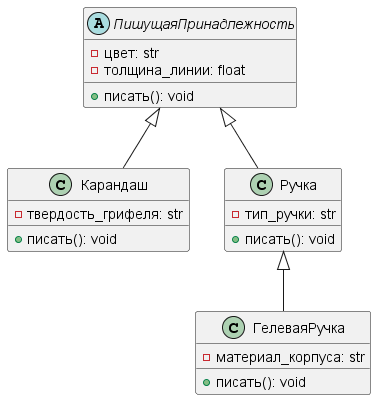
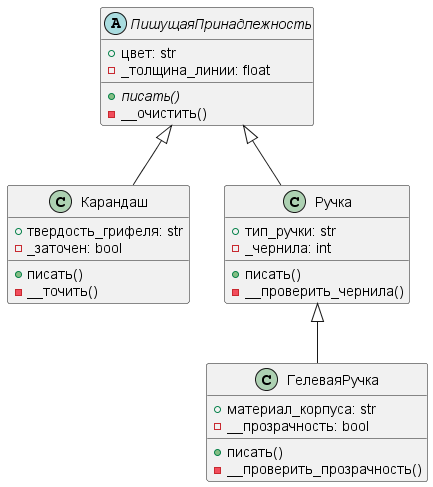
fix private

diff --git a/week_5/task_2/ПишущиеПринадлежности.py b/week_5/task_2/ПишущиеПринадлежности.py
@@ -12,8 +12,8 @@ class ПишущаяПринадлежность(ABC):
         :param цвет: Цвет пишущего инструмента.
         :param толщина_линии: Толщина линии, которую оставляет инструмент.
         """
-        self.цвет = цвет
-        self.толщина_линии = толщина_линии
+        self.цвет = цвет  # Общедоступное поле
+        self._толщина_линии = толщина_линии  # Защищённое поле
 
     @abstractmethod
     def писать(self):
@@ -22,6 +22,12 @@ class ПишущаяПринадлежность(ABC):
         Определяет, как пишущая принадлежность будет "писать".
         """
         pass
+
+    def __очистить(self):
+        """
+        Закрытый метод, который не должен быть доступен извне класса.
+        """
+        print("Инструмент очищен.")
 
 class Карандаш(ПишущаяПринадлежность):
     """
@@ -36,14 +42,22 @@ class Карандаш(ПишущаяПринадлежность):
         :param твердость_грифеля: Твердость грифеля карандаша (например, HB, 2B).
         """
         super().__init__(цвет, толщина_линии)
-        self.твердость_грифеля = твердость_грифеля
+        self.твердость_грифеля = твердость_грифеля  # Общедоступное поле
+        self._заточен = True  # Защищённое поле
 
     def писать(self):
         """
         Реализация метода писать для карандаша.
         Выводит информацию о цвете, толщине линии и твердости грифеля.
         """
-        print(f"Карандаш пишет цветом: {self.цвет}, толщина линии: {self.толщина_линии}, твёрдость грифеля: {self.твердость_грифеля}")
+        print(f"Карандаш пишет цветом: {self.цвет}, толщина линии: {self._толщина_линии}, твёрдость грифеля: {self.твердость_грифеля}")
+
+    def __точить(self):
+        """
+        Закрытый метод для заточки карандаша.
+        """
+        self._заточен = True
+        print("Карандаш заточен.")
 
 class Ручка(ПишущаяПринадлежность):
     """
@@ -58,14 +72,21 @@ class Ручка(ПишущаяПринадлежность):
         :param тип_ручки: Тип ручки (например, шариковая, гелевая).
         """
         super().__init__(цвет, толщина_линии)
-        self.тип_ручки = тип_ручки
+        self.тип_ручки = тип_ручки  # Общедоступное поле
+        self._чернила = 100  # Защищённое поле (уровень чернил)
 
     def писать(self):
         """
         Реализация метода писать для ручки.
         Выводит информацию о цвете, толщине линии и типе ручки.
         """
-        print(f"Ручка пишет цветом: {self.цвет}, толщина линии: {self.толщина_линии}, тип ручки: {self.тип_ручки}.")
+        print(f"Ручка пишет цветом: {self.цвет}, толщина линии: {self._толщина_линии}, тип ручки: {self.тип_ручки}.")
+
+    def __проверить_чернила(self):
+        """
+        Закрытый метод для проверки уровня чернил.
+        """
+        return self._чернила > 0
 
 class ГелеваяРучка(Ручка):
     """
@@ -81,11 +102,18 @@ class ГелеваяРучка(Ручка):
         :param материал_корпуса: Материал корпуса ручки (например, алюминий, пластик).
         """
         super().__init__(цвет, толщина_линии, тип_ручки)
-        self.материал_корпуса = материал_корпуса
+        self.материал_корпуса = материал_корпуса  # Общедоступное поле
+        self.__прозрачность = True  # Закрытое поле
 
     def писать(self):
         """
         Реализация метода писать для гелевой ручки.
         Выводит информацию о типе ручки, цвете, толщине линии и материале корпуса.
         """
-        print(f"Тип ручки: Гелевая, ручка пишет цветом: {self.цвет}, толщина линии: {self.толщина_линии}, материал корпуса: {self.материал_корпуса}.")
+        print(f"Тип ручки: Гелевая, ручка пишет цветом: {self.цвет}, толщина линии: {self._толщина_линии}, материал корпуса: {self.материал_корпуса}.")
+
+    def __проверить_прозрачность(self):
+        """
+        Закрытый метод для проверки прозрачности корпуса.
+        """
+        return self.__прозрачность

diff --git a/week_5/task_2/main.py b/week_5/task_2/main.py
@@ -26,7 +26,7 @@ def main():
     print("\nСоздание гелевой ручки:")
     цвет_гелевой_ручки = input("Введите цвет гелевой ручки: ")
     толщина_гелевой_ручки = float(input("Введите толщину линии гелевой ручки: "))
-    материал_корпуса = input("Введите материал корпуса ручки: (например: алюминий, пластик) ")
+    материал_корпуса = input("Введите материал корпуса ручки (например, алюминий, пластик): ")
     
     гелевая_ручка = ГелеваяРучка(цвет_гелевой_ручки, толщина_гелевой_ручки, тип_ручки, материал_корпуса)
     
@@ -44,7 +44,7 @@ def main():
 if __name__ == "__main__":
     main()
 
-#Пример вывода:
+    #Пример вывода:
 
 #Создание пишущих принадлежностей:
 

diff --git a/week_5/task_2/README.md b/week_5/task_2/README.md
@@ -35,8 +35,8 @@ class ПишущаяПринадлежность(ABC):
         :param цвет: Цвет пишущего инструмента.
         :param толщина_линии: Толщина линии, которую оставляет инструмент.
         """
-        self.цвет = цвет
-        self.толщина_линии = толщина_линии
+        self.цвет = цвет  # Общедоступное поле
+        self._толщина_линии = толщина_линии  # Защищённое поле
 
     @abstractmethod
     def писать(self):
@@ -45,6 +45,12 @@ class ПишущаяПринадлежность(ABC):
         Определяет, как пишущая принадлежность будет "писать".
         """
         pass
+
+    def __очистить(self):
+        """
+        Закрытый метод, который не должен быть доступен извне класса.
+        """
+        print("Инструмент очищен.")
 
 class Карандаш(ПишущаяПринадлежность):
     """
@@ -59,14 +65,22 @@ class Карандаш(ПишущаяПринадлежность):
         :param твердость_грифеля: Твердость грифеля карандаша (например, HB, 2B).
         """
         super().__init__(цвет, толщина_линии)
-        self.твердость_грифеля = твердость_грифеля
+        self.твердость_грифеля = твердость_грифеля  # Общедоступное поле
+        self._заточен = True  # Защищённое поле
 
     def писать(self):
         """
         Реализация метода писать для карандаша.
         Выводит информацию о цвете, толщине линии и твердости грифеля.
         """
-        print(f"Карандаш пишет цветом: {self.цвет}, толщина линии: {self.толщина_линии}, твёрдость грифеля: {self.твердость_грифеля}")
+        print(f"Карандаш пишет цветом: {self.цвет}, толщина линии: {self._толщина_линии}, твёрдость грифеля: {self.твердость_грифеля}")
+
+    def __точить(self):
+        """
+        Закрытый метод для заточки карандаша.
+        """
+        self._заточен = True
+        print("Карандаш заточен.")
 
 class Ручка(ПишущаяПринадлежность):
     """
@@ -81,14 +95,21 @@ class Ручка(ПишущаяПринадлежность):
         :param тип_ручки: Тип ручки (например, шариковая, гелевая).
         """
         super().__init__(цвет, толщина_линии)
-        self.тип_ручки = тип_ручки
+        self.тип_ручки = тип_ручки  # Общедоступное поле
+        self._чернила = 100  # Защищённое поле (уровень чернил)
 
     def писать(self):
         """
         Реализация метода писать для ручки.
         Выводит информацию о цвете, толщине линии и типе ручки.
         """
-        print(f"Ручка пишет цветом: {self.цвет}, толщина линии: {self.толщина_линии}, тип ручки: {self.тип_ручки}.")
+        print(f"Ручка пишет цветом: {self.цвет}, толщина линии: {self._толщина_линии}, тип ручки: {self.тип_ручки}.")
+
+    def __проверить_чернила(self):
+        """
+        Закрытый метод для проверки уровня чернил.
+        """
+        return self._чернила > 0
 
 class ГелеваяРучка(Ручка):
     """
@@ -104,14 +125,21 @@ class ГелеваяРучка(Ручка):
         :param материал_корпуса: Материал корпуса ручки (например, алюминий, пластик).
         """
         super().__init__(цвет, толщина_линии, тип_ручки)
-        self.материал_корпуса = материал_корпуса
+        self.материал_корпуса = материал_корпуса  # Общедоступное поле
+        self.__прозрачность = True  # Закрытое поле
 
     def писать(self):
         """
         Реализация метода писать для гелевой ручки.
         Выводит информацию о типе ручки, цвете, толщине линии и материале корпуса.
         """
-        print(f"Тип ручки: Гелевая, ручка пишет цветом: {self.цвет}, толщина линии: {self.толщина_линии}, материал корпуса: {self.материал_корпуса}.")
+        print(f"Тип ручки: Гелевая, ручка пишет цветом: {self.цвет}, толщина линии: {self._толщина_линии}, материал корпуса: {self.материал_корпуса}.")
+
+    def __проверить_прозрачность(self):
+        """
+        Закрытый метод для проверки прозрачности корпуса.
+        """
+        return self.__прозрачность
 ```
 
 *main.py*
